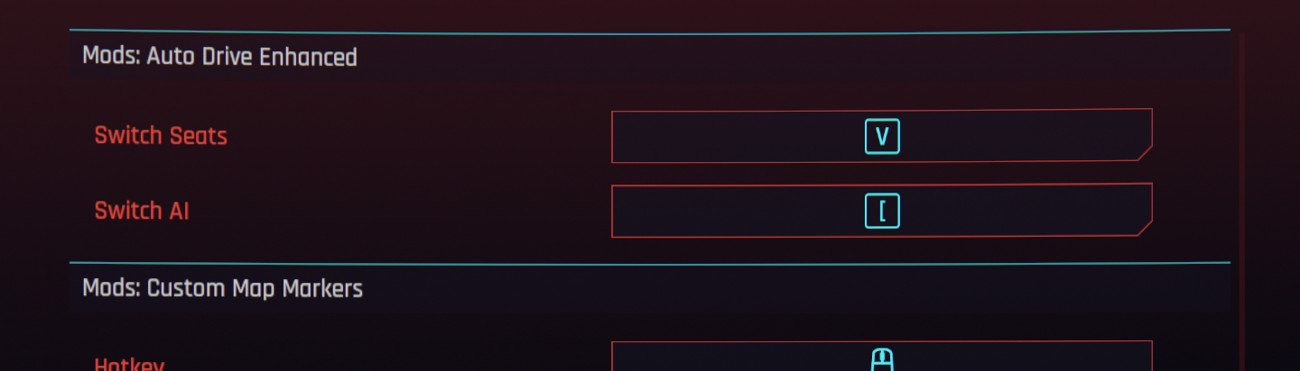
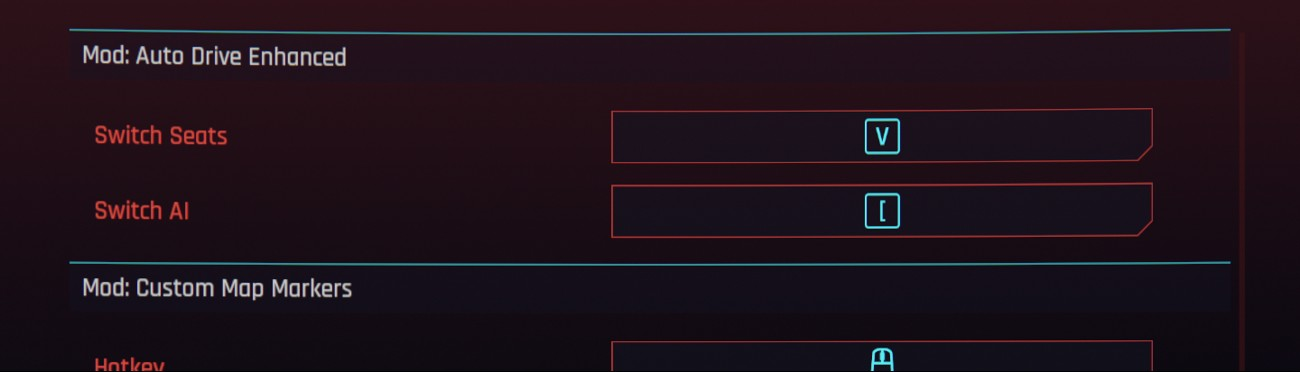
Section headers read "Mod: <name>" instead of "Mods: <name>"
Screenshots and Nexus header retaken with the new headers.

diff --git a/src/Keybinds.cpp b/src/Keybinds.cpp
@@ -313,7 +313,7 @@ std::string Keybinds::SectionKey(const Action& aAction)
 
 std::string Keybinds::SectionText(const Action& aAction)
 {
-    return "Mods: " + aAction.section;
+    return "Mod: " + aAction.section;
 }
 
 std::string Keybinds::Humanize(const std::string& aText)

diff --git a/README.md b/README.md
@@ -14,7 +14,7 @@ Each mod gets its own section below the vanilla keys:
 
 ## Features
 
-- One section per mod in Settings > Controls > Key Bindings, for example *"Mods: Let There Be Flight"* or *"Mods: Stash QoL"*, built at startup from the mods you have installed. Add or remove a mod and the sections follow.
+- One section per mod in Settings > Controls > Key Bindings, for example *"Mod: Let There Be Flight"* or *"Mod: Stash QoL"*, built at startup from the mods you have installed. Add or remove a mod and the sections follow.
 - Section and action names come from the mod's files, for example *"Vehicle Flight Linear Brake"* or *"Transfer Max Quantity"*.
 - Keys stay in sync with Mod Settings: if a mod also has its key in Mod Settings, changing it in either menu changes both.
 - Actions already in the Key Bindings menu (vanilla, or added by mods like No More Hard-coded Keybinds) are not listed twice.
